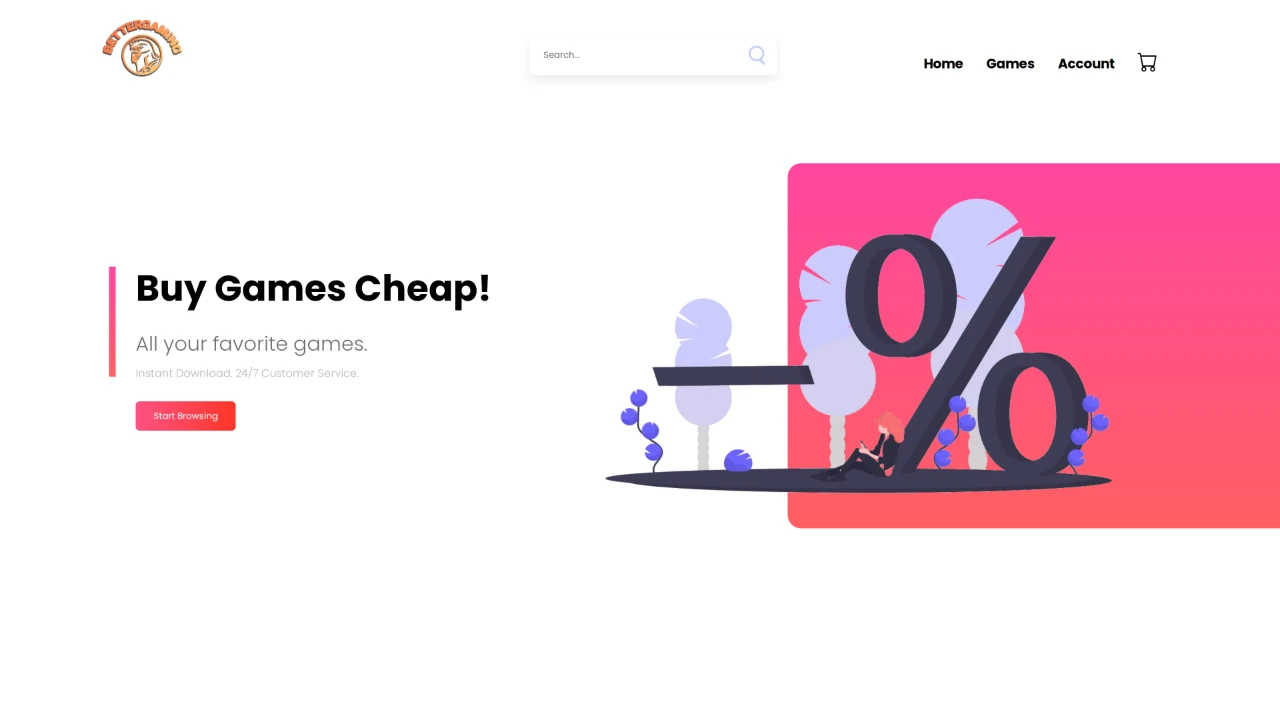
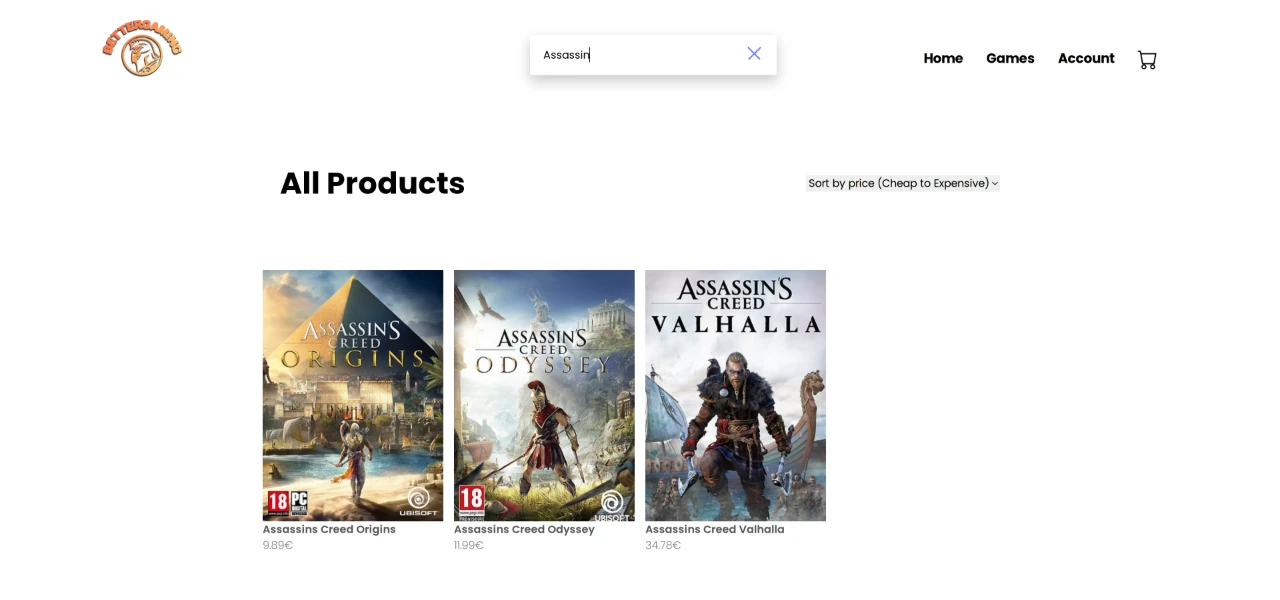
fix: tighten page pacing and show real feature captures
Use the mission dashboard and filtered game catalogue as case-study evidence.
Reduce mobile and inner-page repetition, and finish skip-link, disclosure,
metadata, navigation-state, footer, and chart-axis details.

diff --git a/src/lib/reconciliation.ts b/src/lib/reconciliation.ts
@@ -2,8 +2,8 @@ export const reconciliationRules = [
     {
         id: 'steps',
         label: 'Steps',
-        result: 'Keep unique intervals. Resolve the overlaps.',
-        policy: 'Google Health wins where intervals overlap. Withings still contributes intervals outside that overlap.',
+        result: 'Keep unique intervals.',
+        policy: 'Google Health wins overlaps. Keep the remaining Withings intervals.',
         axis: ['Earlier interval', 'Later interval'],
         tracks: [
             { provider: 'Google Health', segments: [{ start: 1, span: 8, kept: true }] },
@@ -19,8 +19,8 @@ export const reconciliationRules = [
     {
         id: 'sleep',
         label: 'Sleep',
-        result: 'Keep the night and the nap from Withings.',
-        policy: 'For each UTC start date, keep every session from the best-ranked provider. A shorter nap is not discarded.',
+        result: 'Keep the night and nap.',
+        policy: 'Withings ranks first. Keep all its sessions for the same UTC start date.',
         axis: ['Night session', 'Nap · same UTC start date'],
         tracks: [
             { provider: 'Google Health', segments: [{ start: 1, span: 7, kept: false }] },
@@ -36,8 +36,8 @@ export const reconciliationRules = [
     {
         id: 'heart',
         label: 'Heart rate',
-        result: 'The preferred source changes with context.',
-        policy: 'Within a 30-second bin, metric, context, and segment, keep the best-ranked provider’s samples. Sleep context uses the sleep ranking.',
+        result: 'Rank by context.',
+        policy: 'Google Health normally ranks first. Withings ranks first during sleep.',
         axis: ['Normal context', 'Sleep context'],
         tracks: [
             {

diff --git a/src/content.config.ts b/src/content.config.ts
@@ -19,6 +19,7 @@ const work = defineCollection({
                 .default([]),
             accent: z.string(),
             image: image().optional(),
+            imageAlt: z.string().optional(),
             order: z.number(),
         }),
 });

diff --git a/src/styles/global.css b/src/styles/global.css
@@ -319,6 +319,12 @@ body {
     color: var(--accent);
 }
 
+.nav-active.link-line::after {
+    height: 2px;
+    transform: scaleX(1);
+    transform-origin: left;
+}
+
 @media (min-width: 768px) {
     ::-webkit-scrollbar {
         width: 10px;

diff --git a/DESIGN.md b/DESIGN.md
@@ -33,16 +33,16 @@ The homepage reads as introduction with a specific Cloudflare result, two curren
 
 The hero comparison uses the existing résumé's controlled-outage retention result, 51% without compaction and 77% with compaction, in a pipeline handling 100M events/s. It is labeled as an internship experiment. Native radio controls switch a 100-cell figure between 51% and 77%; every cell represents one percentage point. The figure does not imply a sample of 100 events. The first review showed that generic introduction copy and a company-name strip buried this evidence.
 
-Project summaries explain the outcome in one sentence. Case studies use descriptive headings to separate the problem, technical decisions, and delivery. Source-backed figures make the mechanisms and verification inspectable. Their figures add information beyond the homepage. About no longer counts years or roles. Skills are grouped into compact lines. Experience leads with one result per role and puts supporting implementation details in native disclosures. The header shares its geometry on every route; the minimap no longer reserves width on the homepage. Standalone links share a 44px minimum target height across pointer types. Hover leaves navigation white; only the current item is orange and underlined. The scrolled header is fully opaque. Navigation targets are at least 44px tall, and keyboard labels describe a next or previous stop.
+Project summaries explain the outcome in one sentence. Case studies use descriptive headings to separate the problem, technical decisions, and delivery. Source-backed figures make the mechanisms and verification inspectable. Their figures add information beyond the homepage. About no longer counts years or roles. Skills are grouped into compact lines. Experience leads with one result per role and puts supporting implementation details in native disclosures. Inner pages use a smaller contact headline. Mobile introductions and policy figures use tighter spacing. The header shares its geometry on every route; the minimap no longer reserves width on the homepage. Standalone links share a 44px minimum target height across pointer types. Hover adds a neutral underline; the current item uses an orange, heavier underline. The scrolled header is fully opaque. Navigation targets are at least 44px tall, and keyboard labels describe a next or previous stop.
 
 ## Project evidence
 
 - The aqt homepage proof panel summarizes exact historical restore output. Its 1280×800 website capture is retained for social metadata. The case study leads with exact output from a [recorded Linux CI run](https://github.com/Aquitano/aqt-sync/actions/runs/41282154931), dated 1 November 2026 at commit 5210451. A [local text archive](public/evidence/aqt-restore-2026-11-01.txt) preserves that excerpt beyond GitHub log retention. It does not claim a new local run.
 - The aqt encryption figure is based on the [documented threat model](https://github.com/Aquitano/aqt-sync/blob/31e965a9d28250ff5f29f7cb768ed5867e048dd9/docs/threat-model.md). The recovery sequence links to the [actual restore drill](https://github.com/Aquitano/aqt-sync/blob/31e965a9d28250ff5f29f7cb768ed5867e048dd9/scripts/restore-drill.sh).
 - The health homepage panel and case-study selector share the same provider-track component and documented rule data. The case study has a native radio-controlled policy figure. Provider tracks visibly distinguish records kept in canonical reads from raw-only records. These are explicitly labelled schematics, not patient readings. The selector reserves space for its longest state and announces changes through a polite live region. The responsive policy matrix stacks on phones. Both use the [canonical metric documentation](https://github.com/Aquitano/aqt-health/blob/6e4f4ea48a3b7616042a1f8e16c80abc2b5838e7/README.md#canonical-metrics), which also corrected the older sleep-reconciliation description.
-- FrontiersToSpace uses SVG plots built from all 429 [original filtered telemetry records](https://github.com/Aquitano/FrontiersToSpace/blob/2fb1b9a35821a83a70aa6f4bb118f472eaba2ae5/data/filtered_data.json). The local JSON preserves the numeric measurements. Positions use Unix timestamps, not equally spaced packet indices. Labels are English and time is UTC. Hourly ticks and HTML labels retain a fixed type size; non-scaling strokes retain their thickness. Mobile plots reduce intermediate labels and preserve the final recorded time. Altitude leads the page; temperature and pressure add distinct evidence below.
+- FrontiersToSpace uses SVG plots built from all 429 [original filtered telemetry records](https://github.com/Aquitano/FrontiersToSpace/blob/2fb1b9a35821a83a70aa6f4bb118f472eaba2ae5/data/filtered_data.json). The local JSON preserves the numeric measurements. Positions use Unix timestamps, not equally spaced packet indices. Labels are English and time is UTC. Hourly ticks and HTML labels retain a fixed type size; non-scaling strokes retain their thickness. The final recorded time is labelled at every width; phones reduce intermediate labels. Short ticks mark the labelled times. The original mission dashboard leads the page. Its map was framed around the existing recorded route in the browser without changing the application or data. The 1280×800 capture keeps the original German frontend visible; the caption credits OpenStreetMap contributors. English altitude, temperature, and pressure plots follow the narrative, with the lowest pressure highlighted.
 - Griffin uses the original Blender renders from the existing project assets. Its portfolio page does not screenshot the archive's banner or return link.
-- BetterGaming uses a direct browser capture at a 1920px CSS viewport, where the original search and navigation fit. The stored capture is 1280×720. Both historical interfaces have a 928px maximum frame; no true 2× capture is claimed. ChillFlow uses a CSS crop of the supplied render, with the 2025 web-source revision linked because the repository now contains a different terminal application. Their bright mockups no longer dominate the homepage. ChillFlow's published URL returned 404 during this study; no replacement URL was guessed.
+- BetterGaming uses a direct browser capture at a 1920×900 CSS viewport. It shows the actual search query “Assassin” and three results sorted by ascending price. The stored capture is 1280×600. Both historical interfaces have a 928px maximum frame; no true 2× capture is claimed. ChillFlow uses a CSS crop of the supplied render, with the 2025 web-source revision linked because the repository now contains a different terminal application. Their bright mockups no longer dominate the homepage. ChillFlow's published URL returned 404 during this study; no replacement URL was guessed.
 
 The existing fonts, palette, portfolio routes, anchor names, and analytics markers remain. The unavailable ChillFlow demo link is replaced with a pinned historical source link. Interactive behavior answers a reader's action; static architectural figures do not animate continuously.
 

diff --git a/src/content/work/bettergaming.md b/src/content/work/bettergaming.md
@@ -5,7 +5,7 @@ wrap:
     - Gaming
 subtitle: E-Commerce Platform
 year: '2021'
-description: 'An e-commerce platform for video games with Ajax-powered live search, sorting, and dynamic product data served by PHP and MySQL. User management built on hashed & salted passwords with client-side validation for secure registration and login.'
+description: 'An e-commerce platform for video games with Ajax-powered live search, sorting, and dynamic product data served by PHP and MySQL. Account passwords are hashed and salted. Client-side HTML5 validation gives input feedback.'
 summary: 'An early full-stack game store with live search and account management.'
 tags:
     - PHP
@@ -22,6 +22,7 @@ links:
       href: https://github.com/Aquitano/BetterGaming
 accent: '#5ee9b5'
 image: ../../assets/work/bettergaming-interface.webp
+imageAlt: Game catalogue filtered to three matching games and sorted by price.
 order: 5
 ---
 
@@ -29,14 +30,10 @@ order: 5
 
 BetterGaming is an e-commerce platform for video games. The application uses server-side PHP and a MySQL database to load and display product data dynamically.
 
-## Interface behavior
+## Search without a reload
 
-The frontend uses JavaScript ES6, PaceJS and scroll-based animations for a smooth user experience.
-
-## Live search
-
-A core feature is the live search: Ajax requests display search results in real time, with sorting options to refine them further.
+Typing in the search field sends Ajax requests and updates matching games without reloading the page. Sorting then orders those results by name, price, or date added. The capture above shows three matching games ordered from lowest to highest price.
 
 ## Accounts
 
-User management relies on hashed and salted passwords along with client-side HTML5 validation for secure registration and login.
+Account passwords are hashed and salted. HTML5 form validation gives users immediate feedback about their input.

diff --git a/src/content/work/aqt-health.md b/src/content/work/aqt-health.md
@@ -38,7 +38,7 @@ Sync jobs run on the server, so closing the browser does not stop them. After a 
 
 ## Reconcile at read time
 
-Source priorities are applied when reading. The policy figure above shows how steps, sleep, and heart rate differ; the matrix below also covers body measurements. Filtering by provider happens before canonicalization, so original provider rows remain independently queryable.
+Source priorities are applied when reading. The policy figure above shows how steps, sleep, and heart rate differ; the matrix below also covers body measurements. Scalar reads group samples into 30-second bins per metric, context, and segment before choosing a provider. Filtering by provider happens before canonicalization, so original provider rows remain independently queryable.
 
 ## Implementation
 

diff --git a/src/content/work/frontiers-to-space.md b/src/content/work/frontiers-to-space.md
@@ -26,7 +26,8 @@ links:
     - label: Press
       href: https://www.darc-u30.de/news/2023-07-08_hab_asg/index.html
 accent: '#9b8cff'
-image: ../../assets/work/frontiers-to-space.webp
+image: ../../assets/work/frontiers-dashboard.webp
+imageAlt: Original mission dashboard with telemetry charts and a Leaflet map of the recorded flight route.
 order: 4
 ---
 

diff --git a/src/content/work/chill-flow.md b/src/content/work/chill-flow.md
@@ -22,6 +22,7 @@ links:
       href: https://github.com/Aquitano/chill-flow/tree/e0349881f7b9c113f49763b950c9a149634d7ad6
 accent: '#4fd1c5'
 image: ../../assets/work/chill-flow.webp
+imageAlt: ChillFlow web introduction with a focus prompt over a dark circular background.
 order: 3
 ---
 
